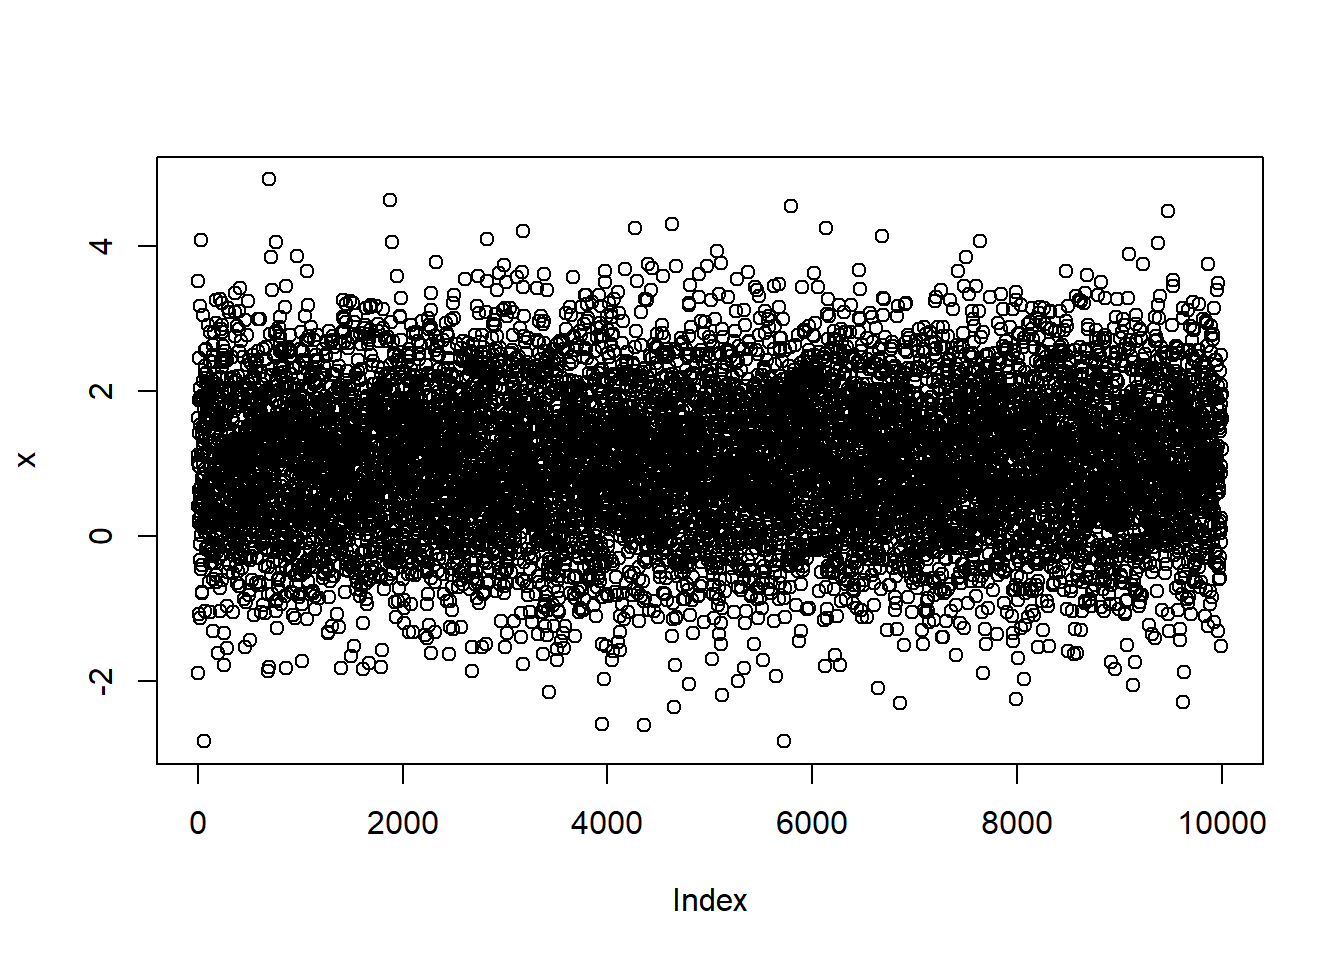
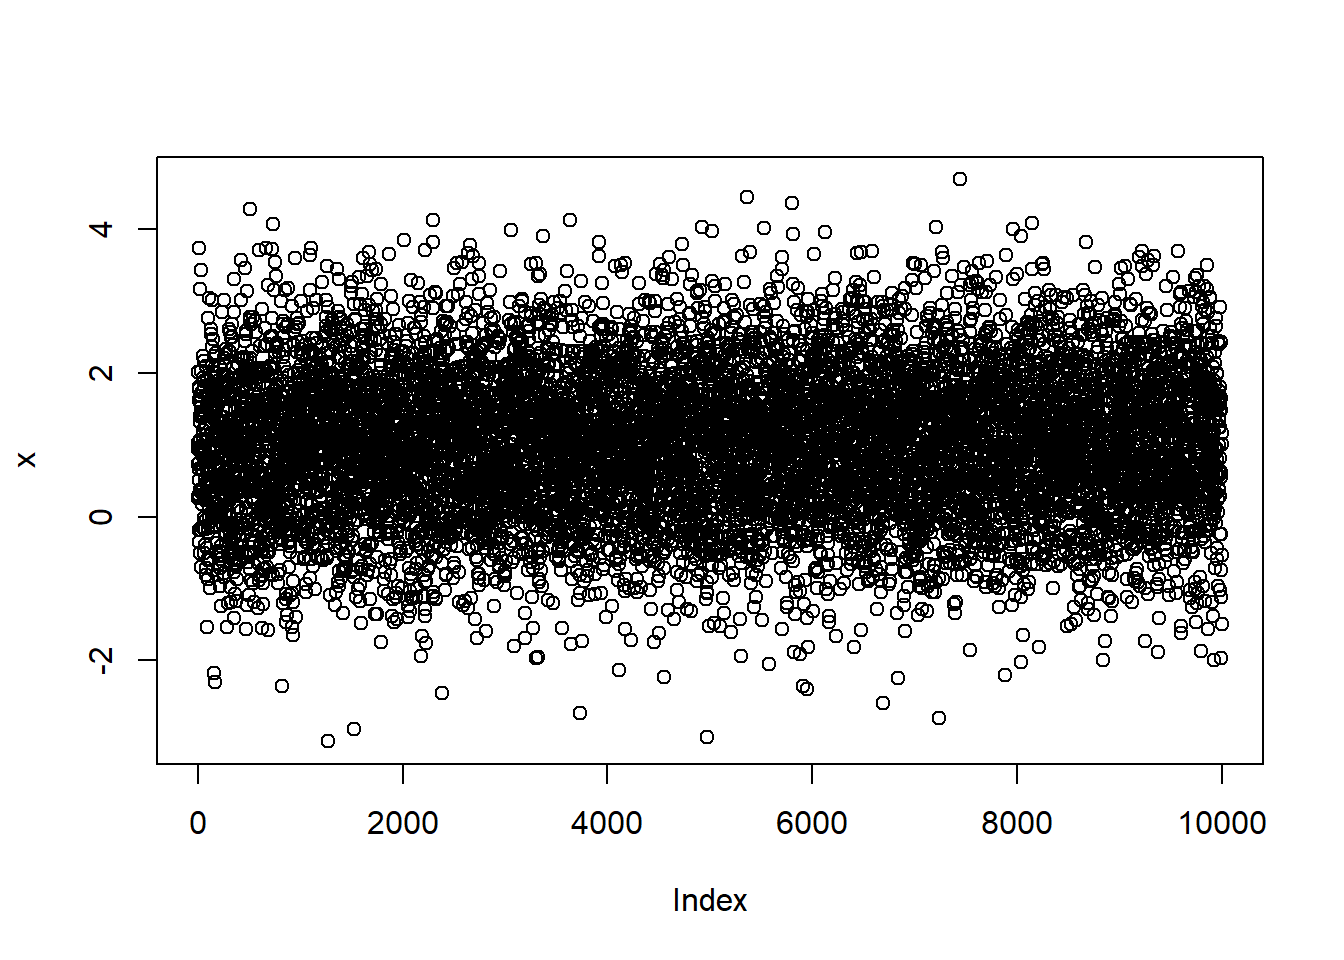
casc

diff --git a/content/post/2019-05-10-comando-basicos-r.html b/content/post/2019-05-10-comando-basicos-r.html
@@ -26,7 +26,7 @@ image:
 <li><a href="#criando-um-vetor-com-numeros-inteiros">Criando um vetor com números inteiros</a></li>
 </ul></li>
 <li><a href="#tudo-no-r-e-objeto">Tudo no R é objeto</a><ul>
-<li><a href="#armazenando-dados-em-objetos">Armazenando dados em objetos</a></li>
+<li><a href="#armazenando-dados-em-objeto">Armazenando dados em objeto</a></li>
 <li><a href="#concatenando-diversos-valores-e-armazenando-os-em-um-objeto">Concatenando diversos valores e armazenando-os em um objeto</a></li>
 <li><a href="#extraindo-um-ou-mais-valores-de-um-objeto-a-partir-da-indexacao">Extraindo um ou mais valores de um objeto a partir da indexação</a></li>
 <li><a href="#principais-tipos-de-objetos">PRINCIPAIS <strong>TIPOS</strong> DE OBJETOS</a><ul>
@@ -245,7 +245,7 @@ Auckland, ajudaram Ross Ihaka a desenvolver a versão para Macintosh.</p>
 ## cite it when using it for data analysis. See also
 ## &#39;citation(&quot;pkgname&quot;)&#39; for citing R packages.</code></pre>
 <pre class="r"><code>Sys.time()                  # obtém data e hora exata do sistema</code></pre>
-<pre><code>## [1] &quot;2019-05-17 13:26:14 -03&quot;</code></pre>
+<pre><code>## [1] &quot;2019-05-17 13:50:21 -03&quot;</code></pre>
 </div>
 <div id="operadores-simples-e-funcoes-matematicas" class="section level2">
 <h2>Operadores simples e funções matemáticas</h2>
@@ -369,8 +369,8 @@ Auckland, ajudaram Ross Ihaka a desenvolver a versão para Macintosh.</p>
 O R é uma linguagem de <strong>POO</strong> (Programação Orientada a Objetos)</p>
 <p>Todo objeto possui uma <strong>CLASSE</strong>
 {{% /alert %}}</p>
-<div id="armazenando-dados-em-objetos" class="section level2">
-<h2>Armazenando dados em objetos</h2>
+<div id="armazenando-dados-em-objeto" class="section level2">
+<h2>Armazenando dados em objeto</h2>
 <pre class="r"><code>x &lt;- 1:5
 x</code></pre>
 <pre><code>## [1] 1 2 3 4 5</code></pre>
@@ -418,7 +418,7 @@ w</code></pre>
 </div>
 <div id="principais-classes-de-objetos" class="section level2">
 <h2>PRINCIPAIS <strong>CLASSES</strong> DE OBJETOS</h2>
-<p>A função <code>class()</code> revela qual a classe dos objetos</p>
+<p>A função <code>class()</code> revela qual a classe do objeto.</p>
 <div id="numerical" class="section level3">
 <h3>numerical</h3>
 <pre class="r"><code>x &lt;- c(13, 15, 346, 58, 23)
@@ -458,11 +458,12 @@ x</code></pre>
 </div>
 <div id="factor" class="section level3">
 <h3>factor</h3>
-<pre class="r"><code>kids &lt;- factor(c(1,0,1,0,0,0,1), levels = c(0, 1),
-              labels = c(&quot;homem&quot;, &quot;mulher&quot;))
+<pre class="r"><code>kids &lt;- factor(c(1,0,2,1,0,2,0,0,1,2), levels = c(0, 1, 2),
+              labels = c(&quot;verde&quot;, &quot;azul&quot;, &quot;vermelho&quot;))
 kids</code></pre>
-<pre><code>## [1] mulher homem  mulher homem  homem  homem  mulher
-## Levels: homem mulher</code></pre>
+<pre><code>##  [1] azul     verde    vermelho azul     verde    vermelho verde   
+##  [8] verde    azul     vermelho
+## Levels: verde azul vermelho</code></pre>
 <pre class="r"><code>class(kids)</code></pre>
 <pre><code>## [1] &quot;factor&quot;</code></pre>
 </div>
@@ -474,7 +475,6 @@ kids</code></pre>
 <pre><code>## [1] &quot;function&quot;</code></pre>
 <pre class="r"><code>class(class)</code></pre>
 <pre><code>## [1] &quot;function&quot;</code></pre>
-<p>(continua…)</p>
 <pre class="r"><code>jim &lt;- list(height = 2.54 * 12 * 6/100, weight = 180/2.2, name = &quot;James&quot;)
 jim</code></pre>
 <pre><code>## $height
@@ -617,7 +617,7 @@ x &lt;- 1
 if(x == 1) {
   Sys.time()
 }</code></pre>
-<pre><code>## [1] &quot;2019-05-17 13:26:16 -03&quot;</code></pre>
+<pre><code>## [1] &quot;2019-05-17 13:50:23 -03&quot;</code></pre>
 <pre class="r"><code>if(x &lt; 0) {
   sinal &lt;- &quot;negativo&quot;
 } else if(x == 0) {
@@ -648,49 +648,49 @@ soma</code></pre>
 <div id="gerando-numeros-aleatorios-e-amostragem" class="section level1">
 <h1>Gerando números aleatórios e amostragem</h1>
 <pre class="r"><code>runif(100)        # Gera números aleatórios entre 0 e 1 com distribuição uniforme</code></pre>
-<pre><code>##   [1] 0.608388933 0.581062344 0.517645269 0.672819412 0.649819160
-##   [6] 0.754297187 0.132622401 0.176994843 0.787249906 0.173139181
-##  [11] 0.498172794 0.209236797 0.941892504 0.237476027 0.443217942
-##  [16] 0.756099316 0.347423637 0.639635688 0.022378198 0.025840349
-##  [21] 0.967047638 0.550155985 0.362232809 0.394913067 0.171806537
-##  [26] 0.219735766 0.876512681 0.866390519 0.773546703 0.061943470
-##  [31] 0.235920092 0.269222638 0.155632395 0.980708476 0.707872858
-##  [36] 0.013226902 0.696739362 0.014219305 0.151975404 0.693406857
-##  [41] 0.807917664 0.082974844 0.306194885 0.169356415 0.423311230
-##  [46] 0.428403592 0.566595986 0.514314408 0.644708217 0.890406682
-##  [51] 0.066392422 0.864173413 0.959354417 0.004469814 0.912726865
-##  [56] 0.586175808 0.487432974 0.850958646 0.128216415 0.650674215
-##  [61] 0.066306421 0.295356002 0.651874338 0.267458653 0.152515881
-##  [66] 0.130834899 0.550246519 0.971289081 0.932033207 0.526398069
-##  [71] 0.788369068 0.299879264 0.516106933 0.240744340 0.819842007
-##  [76] 0.997443974 0.463032226 0.047886001 0.615437904 0.140110088
-##  [81] 0.825923809 0.671913429 0.606816301 0.772405326 0.967281524
-##  [86] 0.940618128 0.877769436 0.881118541 0.513739074 0.590893585
-##  [91] 0.290778978 0.469883014 0.888908924 0.120706387 0.746727151
-##  [96] 0.452271349 0.687487219 0.968191509 0.254746879 0.005299529</code></pre>
+<pre><code>##   [1] 0.406489000 0.129715340 0.544890047 0.288760938 0.321302329
+##   [6] 0.202479408 0.603085411 0.085331798 0.024174797 0.063628260
+##  [11] 0.750106495 0.625101986 0.939483653 0.725070480 0.368794017
+##  [16] 0.167165269 0.829865834 0.534516531 0.511981257 0.007447556
+##  [21] 0.265325679 0.693285795 0.009691315 0.848728254 0.536095119
+##  [26] 0.237167577 0.786176469 0.935868908 0.107751414 0.040722480
+##  [31] 0.958434282 0.579388087 0.013273846 0.054053821 0.087358988
+##  [36] 0.678980766 0.891951657 0.979378986 0.386750467 0.838782496
+##  [41] 0.779385668 0.212539058 0.481316218 0.461924551 0.406579245
+##  [46] 0.299782020 0.747727576 0.442795705 0.991050001 0.515750526
+##  [51] 0.926662972 0.764166197 0.390712549 0.517646663 0.204572337
+##  [56] 0.309753470 0.648775704 0.223772062 0.263089166 0.056369788
+##  [61] 0.219067497 0.860510986 0.230711850 0.067437292 0.278847180
+##  [66] 0.100561387 0.839451751 0.349257540 0.369448629 0.869831348
+##  [71] 0.171847658 0.426036487 0.238181596 0.995286006 0.465730455
+##  [76] 0.479400031 0.991909405 0.894016973 0.201605483 0.208316025
+##  [81] 0.020631190 0.288431415 0.702142283 0.002027798 0.480620687
+##  [86] 0.446953051 0.160930767 0.915020832 0.787641319 0.682592764
+##  [91] 0.413218430 0.341291560 0.657701971 0.721461410 0.975894406
+##  [96] 0.005683650 0.131977067 0.955078262 0.544854123 0.073761563</code></pre>
 <pre class="r"><code>rnorm(100)        # Gera números aleatórios com distribuição normal</code></pre>
-<pre><code>##   [1]  0.764302452  0.281012019 -1.728230532  0.862745118  0.547124407
-##   [6]  1.258492685  1.767561356 -1.366860170 -0.196304578  0.962659968
-##  [11] -1.013999072 -0.403330369  0.473400313 -0.776773068  0.375772197
-##  [16] -0.301600971 -0.136748651  1.809995397  0.798337546 -0.038801901
-##  [21] -1.134223803  0.523916574 -0.652101277  1.507960439  0.628838467
-##  [26] -0.018569613  0.082524409  0.208483463 -0.794089649 -1.071450073
-##  [31] -1.973630212  0.580182540 -0.338768840 -0.294851490 -0.906751448
-##  [36] -0.680562803  2.310689262  0.315686437  0.893444139  1.679977167
-##  [41]  0.632487375 -0.095379216  0.452801127  0.939490121 -0.989322907
-##  [46] -0.381879405 -0.370746434 -0.101643442 -0.680617146  1.762243633
-##  [51]  1.385916986  0.371940018  1.531219090  1.258548367 -0.395354166
-##  [56] -2.311758463 -1.532002787 -0.443842228  1.058962227  1.070714287
-##  [61]  0.415472001  1.478140246 -0.008211182  0.117782954 -0.680006103
-##  [66] -0.949842974 -1.714998050  0.546144197 -0.464838096  0.730291433
-##  [71]  0.476368362  0.284491996  1.634865721  0.915943737 -0.482132118
-##  [76] -0.891398757 -0.861807817 -0.773946764  0.397827401  0.378473232
-##  [81]  0.525313001 -1.506612500 -0.751589601  1.057091529  0.549165333
-##  [86]  0.973582660  1.304730230  0.702111932 -0.259998299  1.461475295
-##  [91]  1.971103709  0.073978269  0.092609951  0.523829650 -0.881854167
-##  [96]  0.849449812  1.489359040  0.946265620  1.176484761  1.344817779</code></pre>
+<pre><code>##   [1] -0.93699361 -0.44888206 -0.04674510 -2.01737015  1.98820651
+##   [6]  0.89157507 -0.73415962 -1.77299385 -0.48558842  0.43624479
+##  [11]  0.47786437  0.07644328  0.35044220  0.12779030 -2.45829503
+##  [16]  0.09248384  1.40700433  1.39467036 -0.55216907 -0.46890244
+##  [21] -0.23140014  1.27063344 -0.08832772 -0.11518603  0.06069170
+##  [26]  1.85588496  1.54859233 -0.52184347  0.52918815  0.11857065
+##  [31] -0.32726777 -0.10264153  0.10014546  0.32532958  1.39409433
+##  [36]  0.22187891 -0.07425150  0.23795220 -0.39987063  2.06253075
+##  [41] -0.57333649  0.35023129  0.08474809  0.86828560  0.08098362
+##  [46]  0.09972056  0.65924954  0.92499815  0.11938472 -0.07143163
+##  [51]  1.58293988  0.93076930 -1.52036042 -1.98361975 -1.45433114
+##  [56]  0.40343662  0.88251146  0.76517867 -1.90953037 -1.06641585
+##  [61]  0.37360176 -0.74818575  0.02915908  2.21756406  0.27878226
+##  [66] -0.09086807  1.64794564  1.17493966  1.99587369  2.45649606
+##  [71]  0.34278750 -0.07710906 -1.53695830 -1.13683330 -0.48156945
+##  [76] -2.31678526  0.28383124  0.53338448  0.16751386  0.06709191
+##  [81] -0.96815768 -2.58141972  2.01413049 -0.07736493 -1.28741464
+##  [86] -0.56021518 -0.14264489 -1.15993763  0.92721994  1.35679332
+##  [91]  0.54589452  0.52978940 -0.43790623  1.58197268  1.65698929
+##  [96] -1.65777281  0.44213337  0.23215295 -0.94670808 -0.16704259</code></pre>
 <pre class="r"><code>sample(1:100, 4)  # Amostragem</code></pre>
-<pre><code>## [1] 38 25 73 78</code></pre>
+<pre><code>## [1] 11  9 33 34</code></pre>
 <div id="histograma" class="section level2">
 <h2>Histograma</h2>
 <pre class="r"><code>x &lt;- rnorm(n=10000, mean=1, sd=1)
